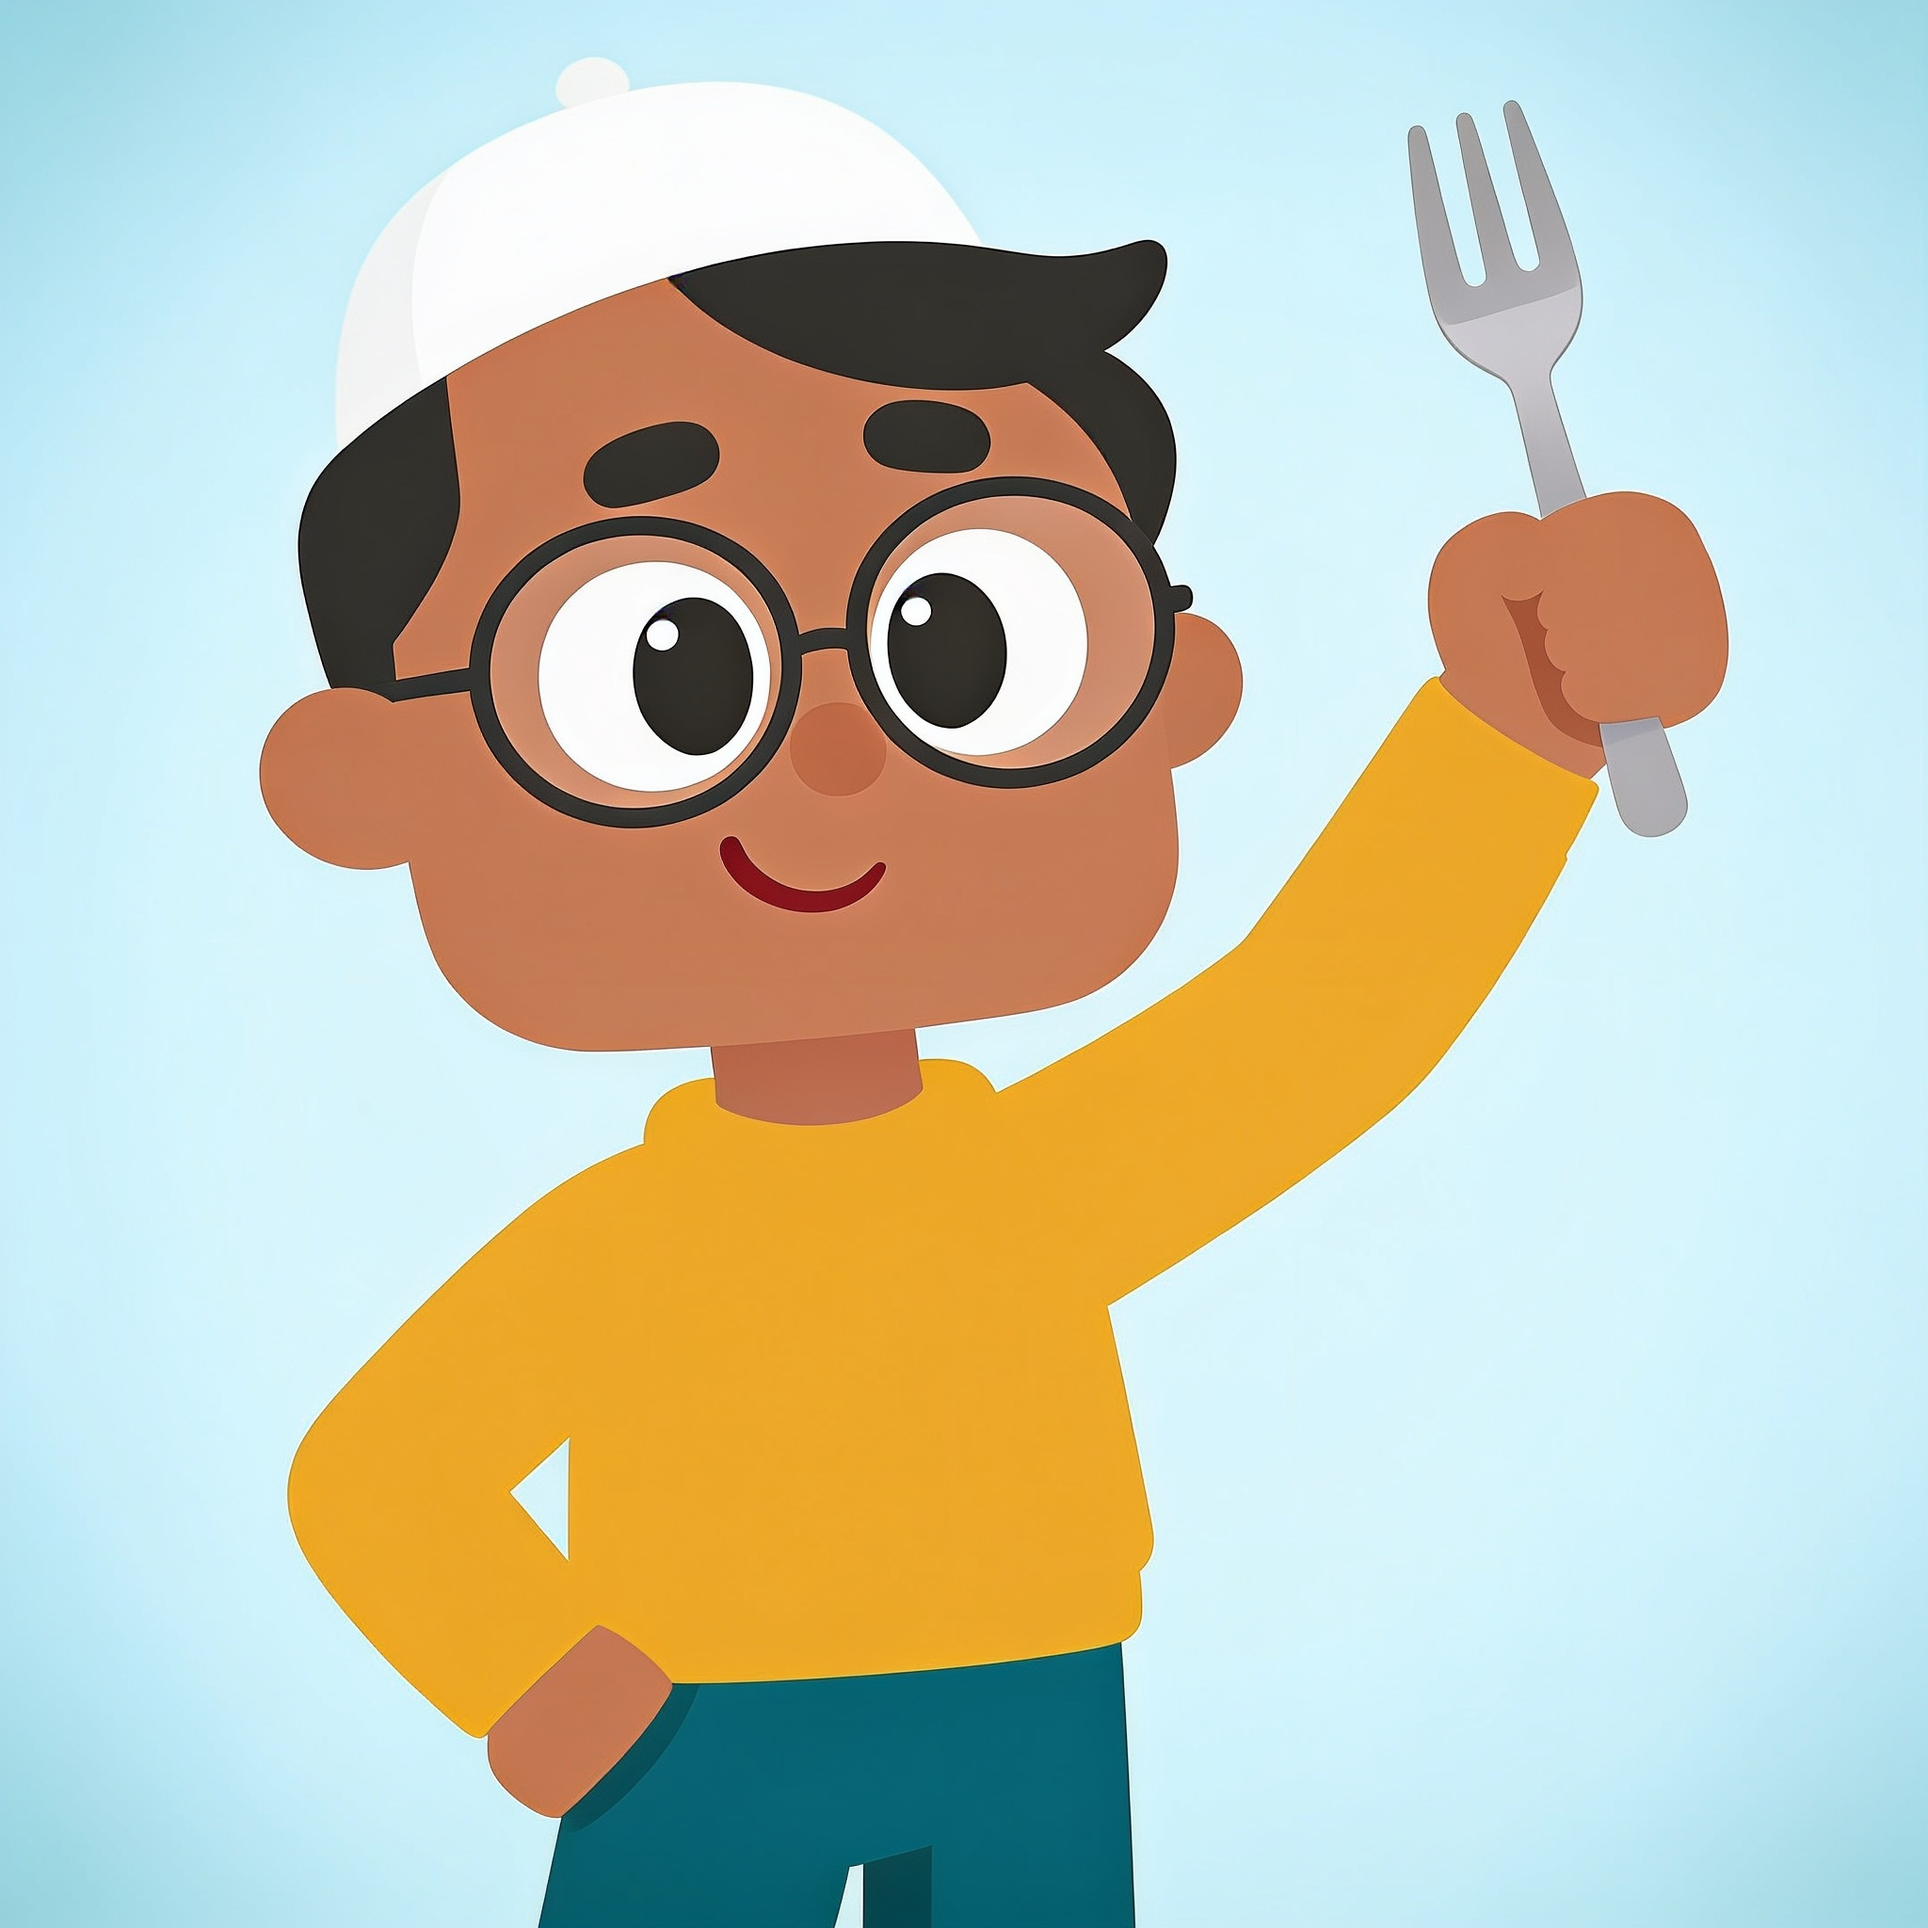
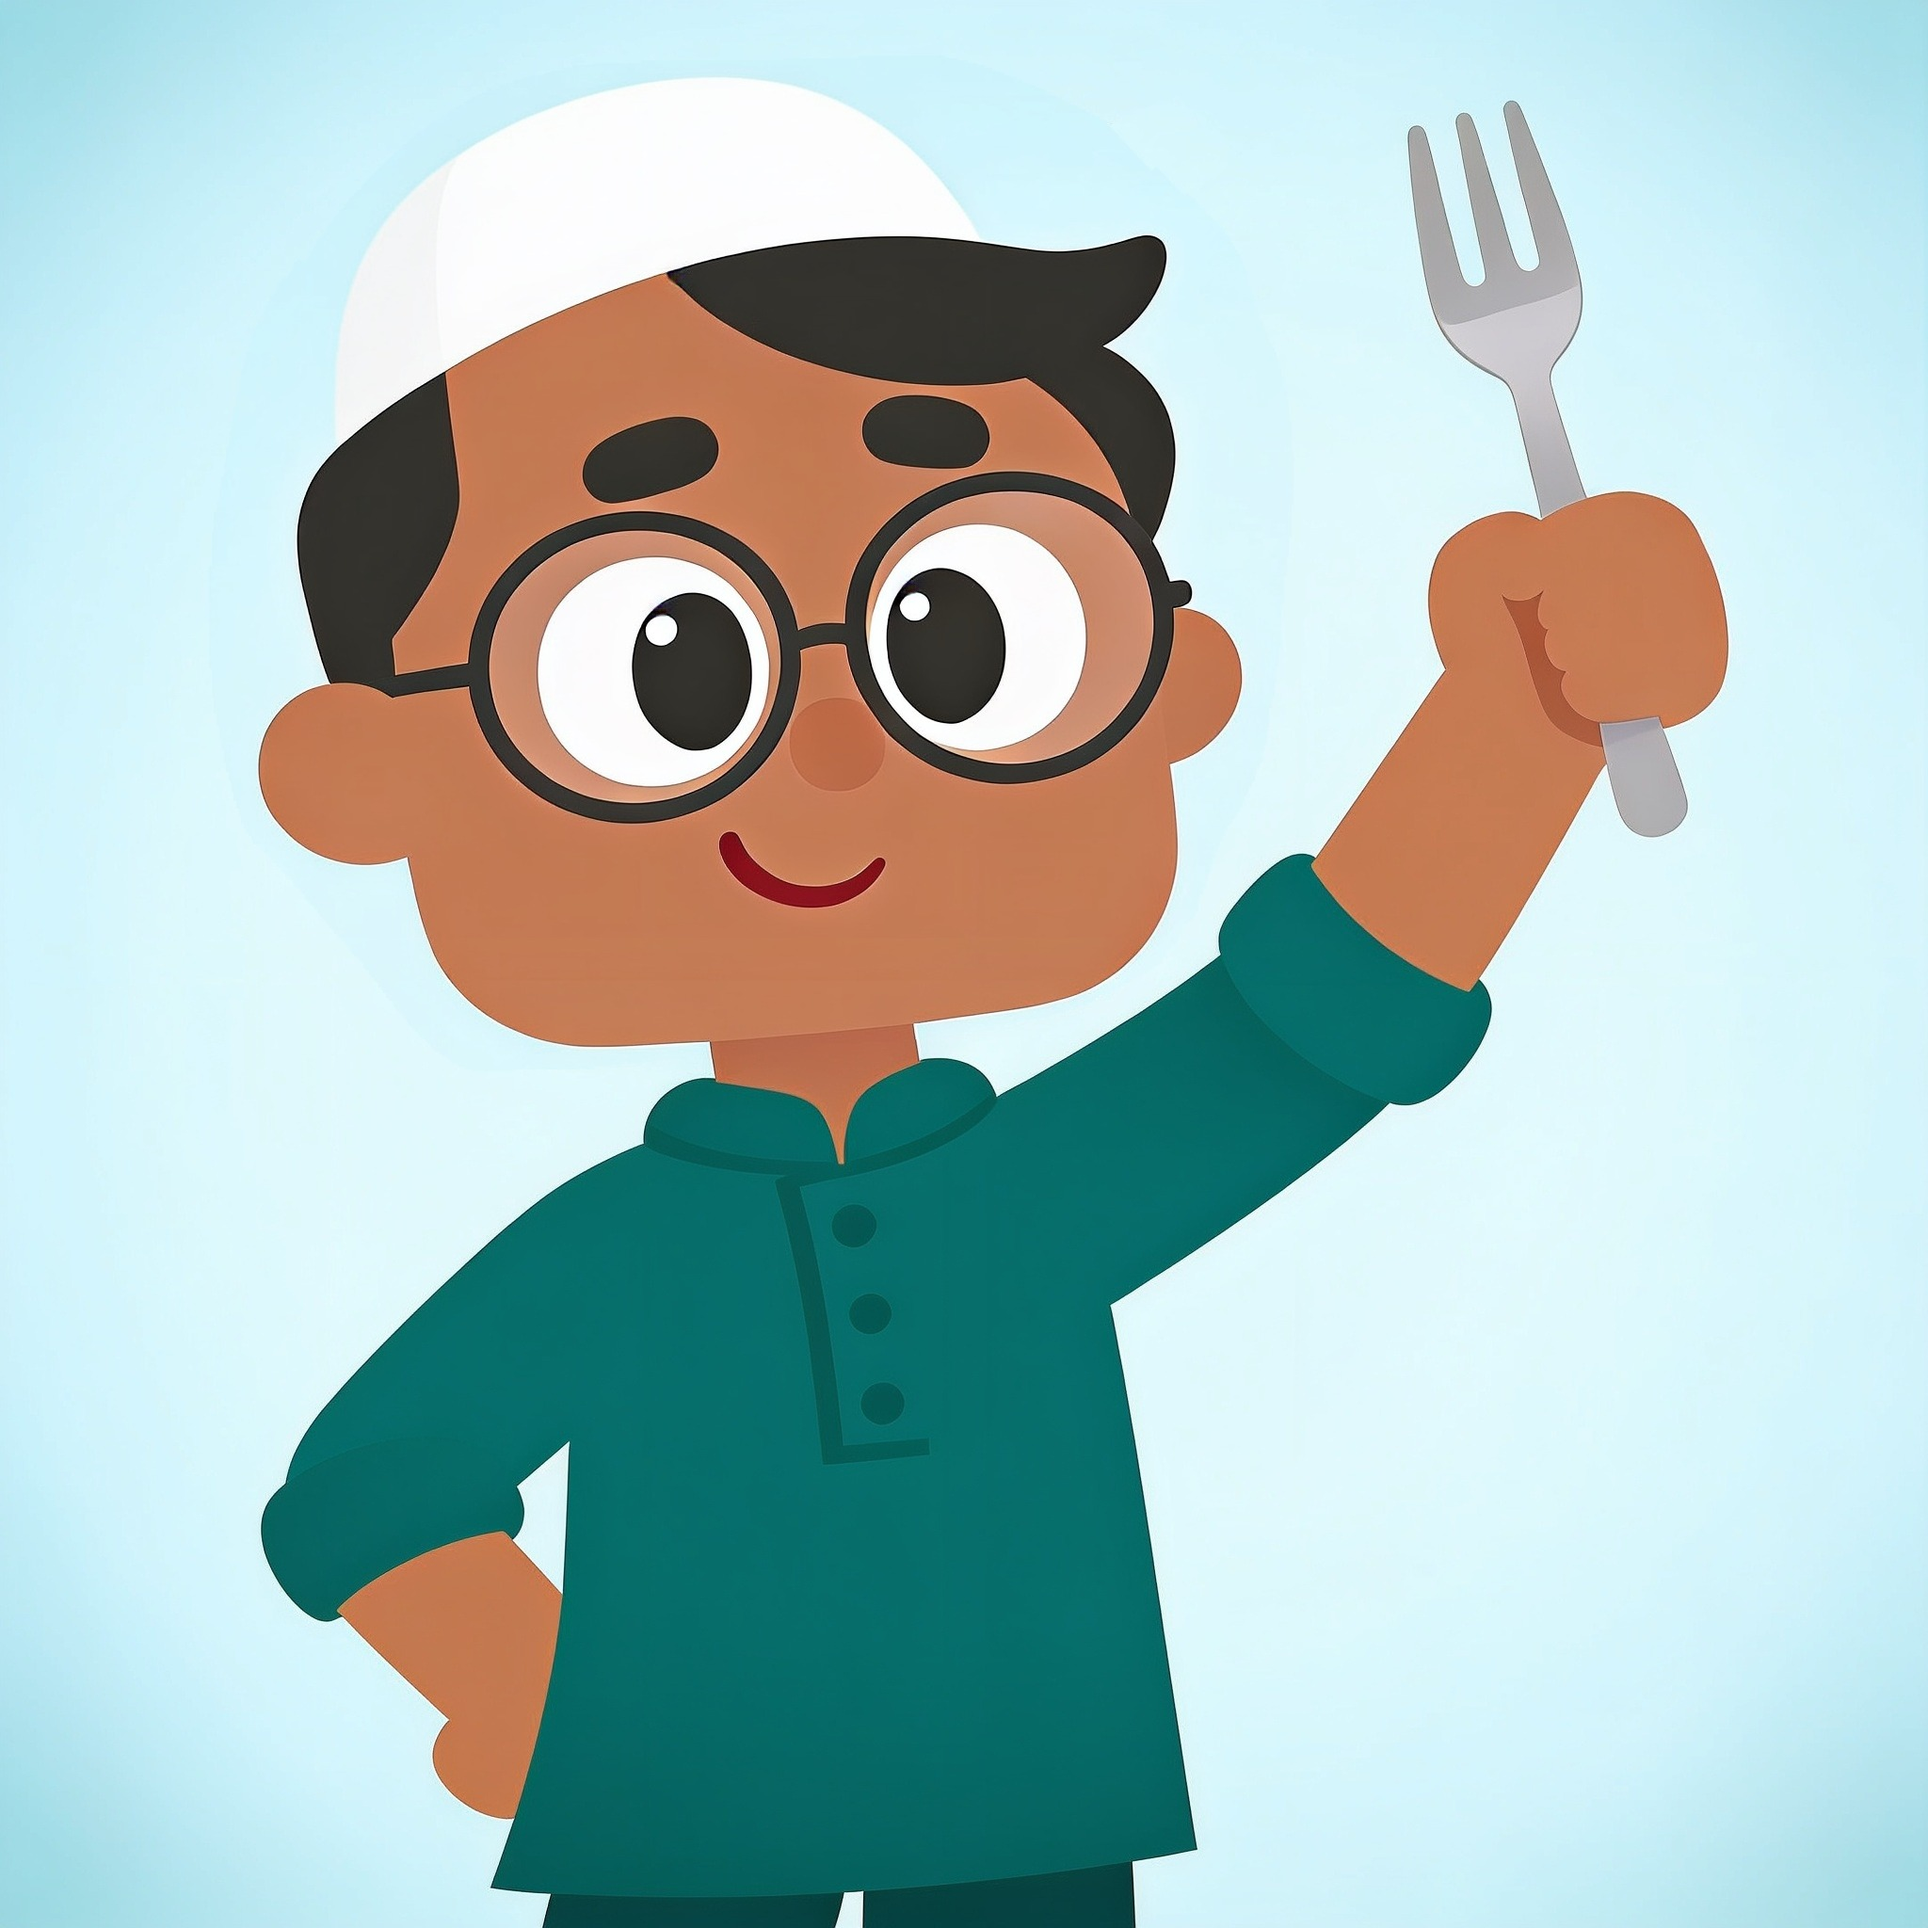
[sc-159] Swap mascot art to Tahir v2 kurta look

diff --git a/brand/tahir/CHARACTER.md b/brand/tahir/CHARACTER.md
@@ -1,7 +1,9 @@
-# Tahir — Mascot Character Bible (v1)
+# Tahir — Mascot Character Bible (v2)
 
 Status: canonical · Owner: Fatima (design) · Approved by founder (Arham) 2026-08-30
 Canonical image: `brand/tahir/tahir-canonical.jpg` — **all future Tahir imagery MUST be generated from this image as reference** (image-to-image with this file attached).
+Source: `brand/tahir/tahir.png`; head icon: `brand/tahir/tahir-head.jpg`.
+> **v2 (2026-08-30):** Tahir was restyled from the v1 "mustard sweater" look to the **"kurta Tahir"** look — green band-collar kurta, plain white topi, no beard. The face stays 100% consistent (glasses, eyebrows, smile). v1 art is archived at `brand/tahir/tahir-v1-sweeper-archived.jpg` / `brand/tahir/tahir-head-v1-archived.jpg` and must NOT be used in live/committed usage.
 
 ## Who Tahir is
 
@@ -14,9 +16,10 @@ Tahir (طاهر — "pure") is the mascot and personification of Tahir's List (t
 | Style | Flat vector, Duolingo-style: bold simple shapes, no outlines, big head, expressive oval eyes, dot eyebrows, simple smile |
 | Skin | Medium brown |
 | Hair | Black, swept swoosh at the front |
-| Cap | White kufi cap (small button on top), sits tilted-forward |
+| Headgear | **Plain white topi** (small button on top), sits tilted-forward |
 | Glasses | Round, black frames — signature feature, always present |
-| Top | Plain mustard-yellow crew sweater (no emblem, no badge, no logo) |
+| **Beard** | **None** (v2 — no beard) |
+| Top | **Green band-collar kurta** (no emblem, no badge, no logo) |
 | Bottoms | Dark teal pants |
 | Signature prop | Silver fork, raised in right hand like a toast |
 | Pose | Other hand on hip, confident but relaxed |
@@ -25,9 +28,9 @@ Tahir (طاهر — "pure") is the mascot and personification of Tahir's List (t
 ## Rules for generating Tahir
 
 1. **Always attach `tahir-canonical.jpg` as the reference image** for any new Tahir art (poses, outfits, expressions, scenes).
-2. Keep the face **100% consistent** — glasses, kufi, eyebrows, smile shape never change.
-3. The sweater stays **plain mustard** — the green Verified checkmark is a *product UI element* (the VerifiedSeal), NOT part of his clothing. Trust is shown by the interface, not worn by the mascot.
-4. Outfit/prop changes are allowed for contexts (apron for "verification in progress" scenes, explorer look for search) but the mustard-yellow top, kufi, and glasses remain identifiable anchors.
+2. Keep the face **100% consistent** — glasses, eyebrows, eyebrow dots, smile shape never change.
+3. The kurta stays **plain green band-collar** — the green Verified checkmark is a *product UI element* (the VerifiedSeal), NOT part of his clothing. Trust is shown by the interface, not worn by the mascot.
+4. Outfit/prop changes are allowed for contexts (apron for "verification in progress" scenes, explorer look for search) but the green band-collar kurta, the topi, and the glasses remain identifiable anchors. **No beard is ever added.**
 5. Never depict Tahir eating pork/alcohol or in any haram context. He celebrates halal food, never mocks unverified places — "Unverified" is shown with kindness ("Tahir doesn't know yet — help him find out").
 
 ## Product voice (Tahir as narrator)
@@ -44,3 +47,4 @@ Tahir (طاهر — "pure") is the mascot and personification of Tahir's List (t
 - Primary lockup: **C2** (head icon + wordmark + red apostrophe) everywhere; C1 hang-off rejected.
 - Dark theme: liked (C4 treatment); light is launch default, dark theme = later pass. See `BRAND-DECISIONS.md`.
 - Future: Tahir loading animation (eating random food), expression/pose sheet, "Tahir's Favorites" sponsor slot.
+- v1 → v2 container/consistency: v1 (mustard-sweater) art is archived, not for reuse in live screens.
